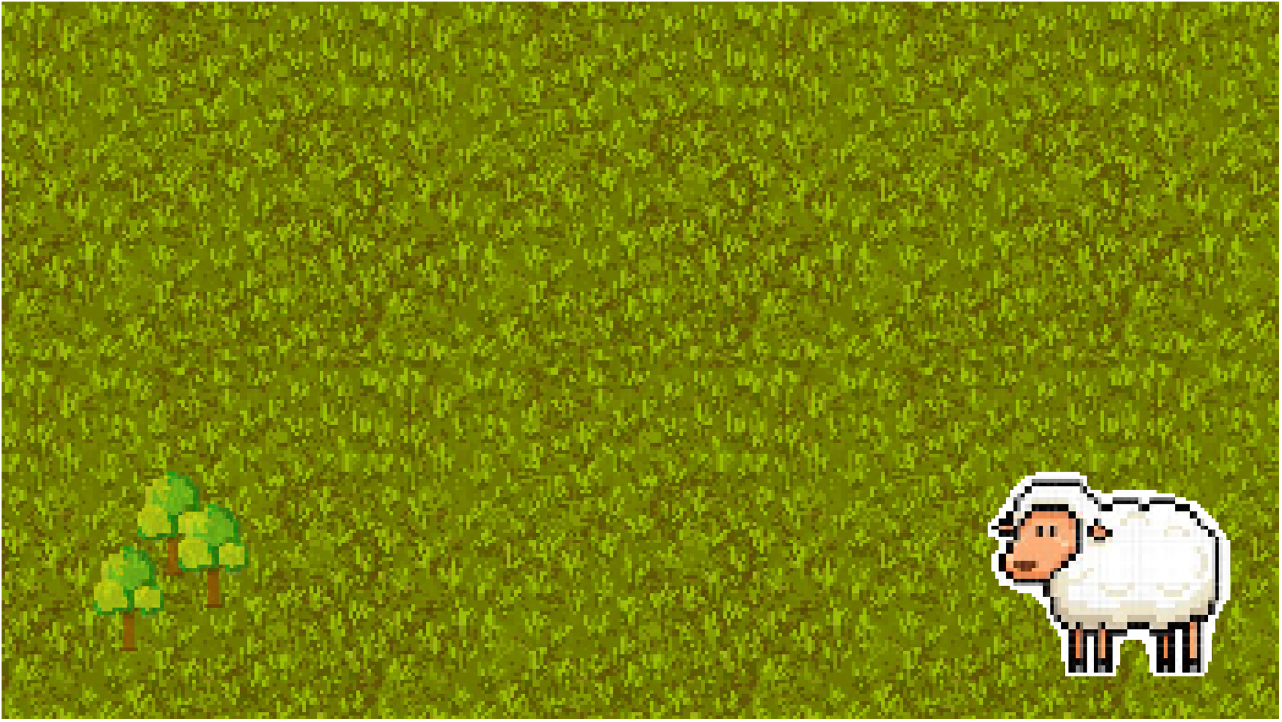
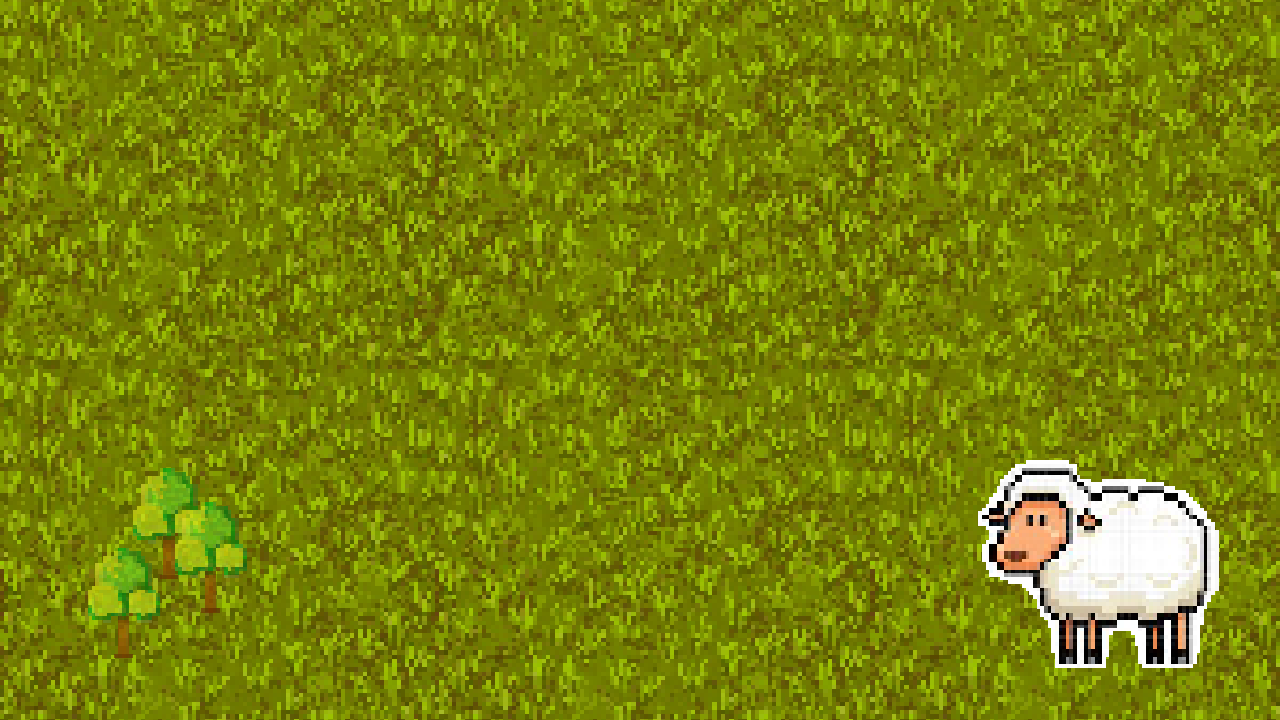
로그인 버튼 생성 및 엔터이미지 추가, 배경 리사이징 등

diff --git a/JAVA/SheepSimulator/src/sheepSimulator/LoginButton.java b/JAVA/SheepSimulator/src/sheepSimulator/LoginButton.java
@@ -8,14 +8,18 @@ import javax.swing.ImageIcon;
 
 public class LoginButton extends Button {
 	public LoginButton(){
-		this.buttonImage = new ImageIcon("../res/image/loginButton.png");
+		this.buttonImage = new ImageIcon(MainClass.class.getResource("../res/image/loginButton.png"));
+		this.buttonEnteredImage = new ImageIcon(MainClass.class.getResource("../res/image/loginButton_entered.png"));
 		
+		this.setIcon(this.buttonImage);
+		this.setBounds(850, 250, 200, 152);
 		this.setBorderPainted(false);
 		this.setContentAreaFilled(false);
 		this.setFocusPainted(false);
 		this.addMouseListener(new MouseAdapter() {
 			@Override
 			public void mouseEntered(MouseEvent e) {
+				buttonEntered = new Music("ButtonEntered.mp3");
 				buttonEntered.start();
 				setIcon(buttonEnteredImage);
 				setCursor(new Cursor(Cursor.HAND_CURSOR));

diff --git a/JAVA/SheepSimulator/src/sheepSimulator/StartMenu.java b/JAVA/SheepSimulator/src/sheepSimulator/StartMenu.java
@@ -6,6 +6,7 @@ import java.awt.Image;
 
 import javax.swing.ImageIcon;
 import javax.swing.JFrame;
+import javax.swing.JPanel;
 
 public class StartMenu extends JFrame {
 
@@ -20,6 +21,7 @@ public class StartMenu extends JFrame {
 	private Music backGroundMusic1;
 	private Music backGroundMusic2;
 	
+	private JPanel titlePanel;
 	private ExitButton exitButton;
 	private LoginButton loginButton;
 	private LogOutButton logoutButton;
@@ -40,10 +42,13 @@ public class StartMenu extends JFrame {
 		this.setLayout(null);
 
 		this.backGround = new ImageIcon(MainClass.class.getResource("../res/image/backGround.png")).getImage();
+		
+		this.loginButton = new LoginButton();
 		this.exitButton = new ExitButton();
-		
+
+		this.add(loginButton);
 		this.add(exitButton);
-		
+
 		this.initMenu();
 	}
 

diff --git a/JAVA/SheepSimulator/src/sheepSimulator/ExitButton.java b/JAVA/SheepSimulator/src/sheepSimulator/ExitButton.java
@@ -11,10 +11,9 @@ public class ExitButton extends Button {
 	public ExitButton() {
 		
 		this.buttonImage = new ImageIcon(MainClass.class.getResource("../res/image/quit.png"));
-		this.buttonEnteredImage = new ImageIcon(MainClass.class.getResource("../res/image/quit.png"));
+		this.buttonEnteredImage = new ImageIcon(MainClass.class.getResource("../res/image/quit_entered.png"));
 		
 		this.setIcon(this.buttonImage);
-		
 		this.setBounds(375, 470, 535, 120);
 		this.setBorderPainted(false);
 		this.setContentAreaFilled(false);

diff --git a/JAVA/SheepSimulator/src/sheepSimulator/MainClass.java b/JAVA/SheepSimulator/src/sheepSimulator/MainClass.java
@@ -11,5 +11,4 @@ public class MainClass {
 	public static void main(String[] args) {
 		StartMenu.getInstance();
 	}
-
 }
